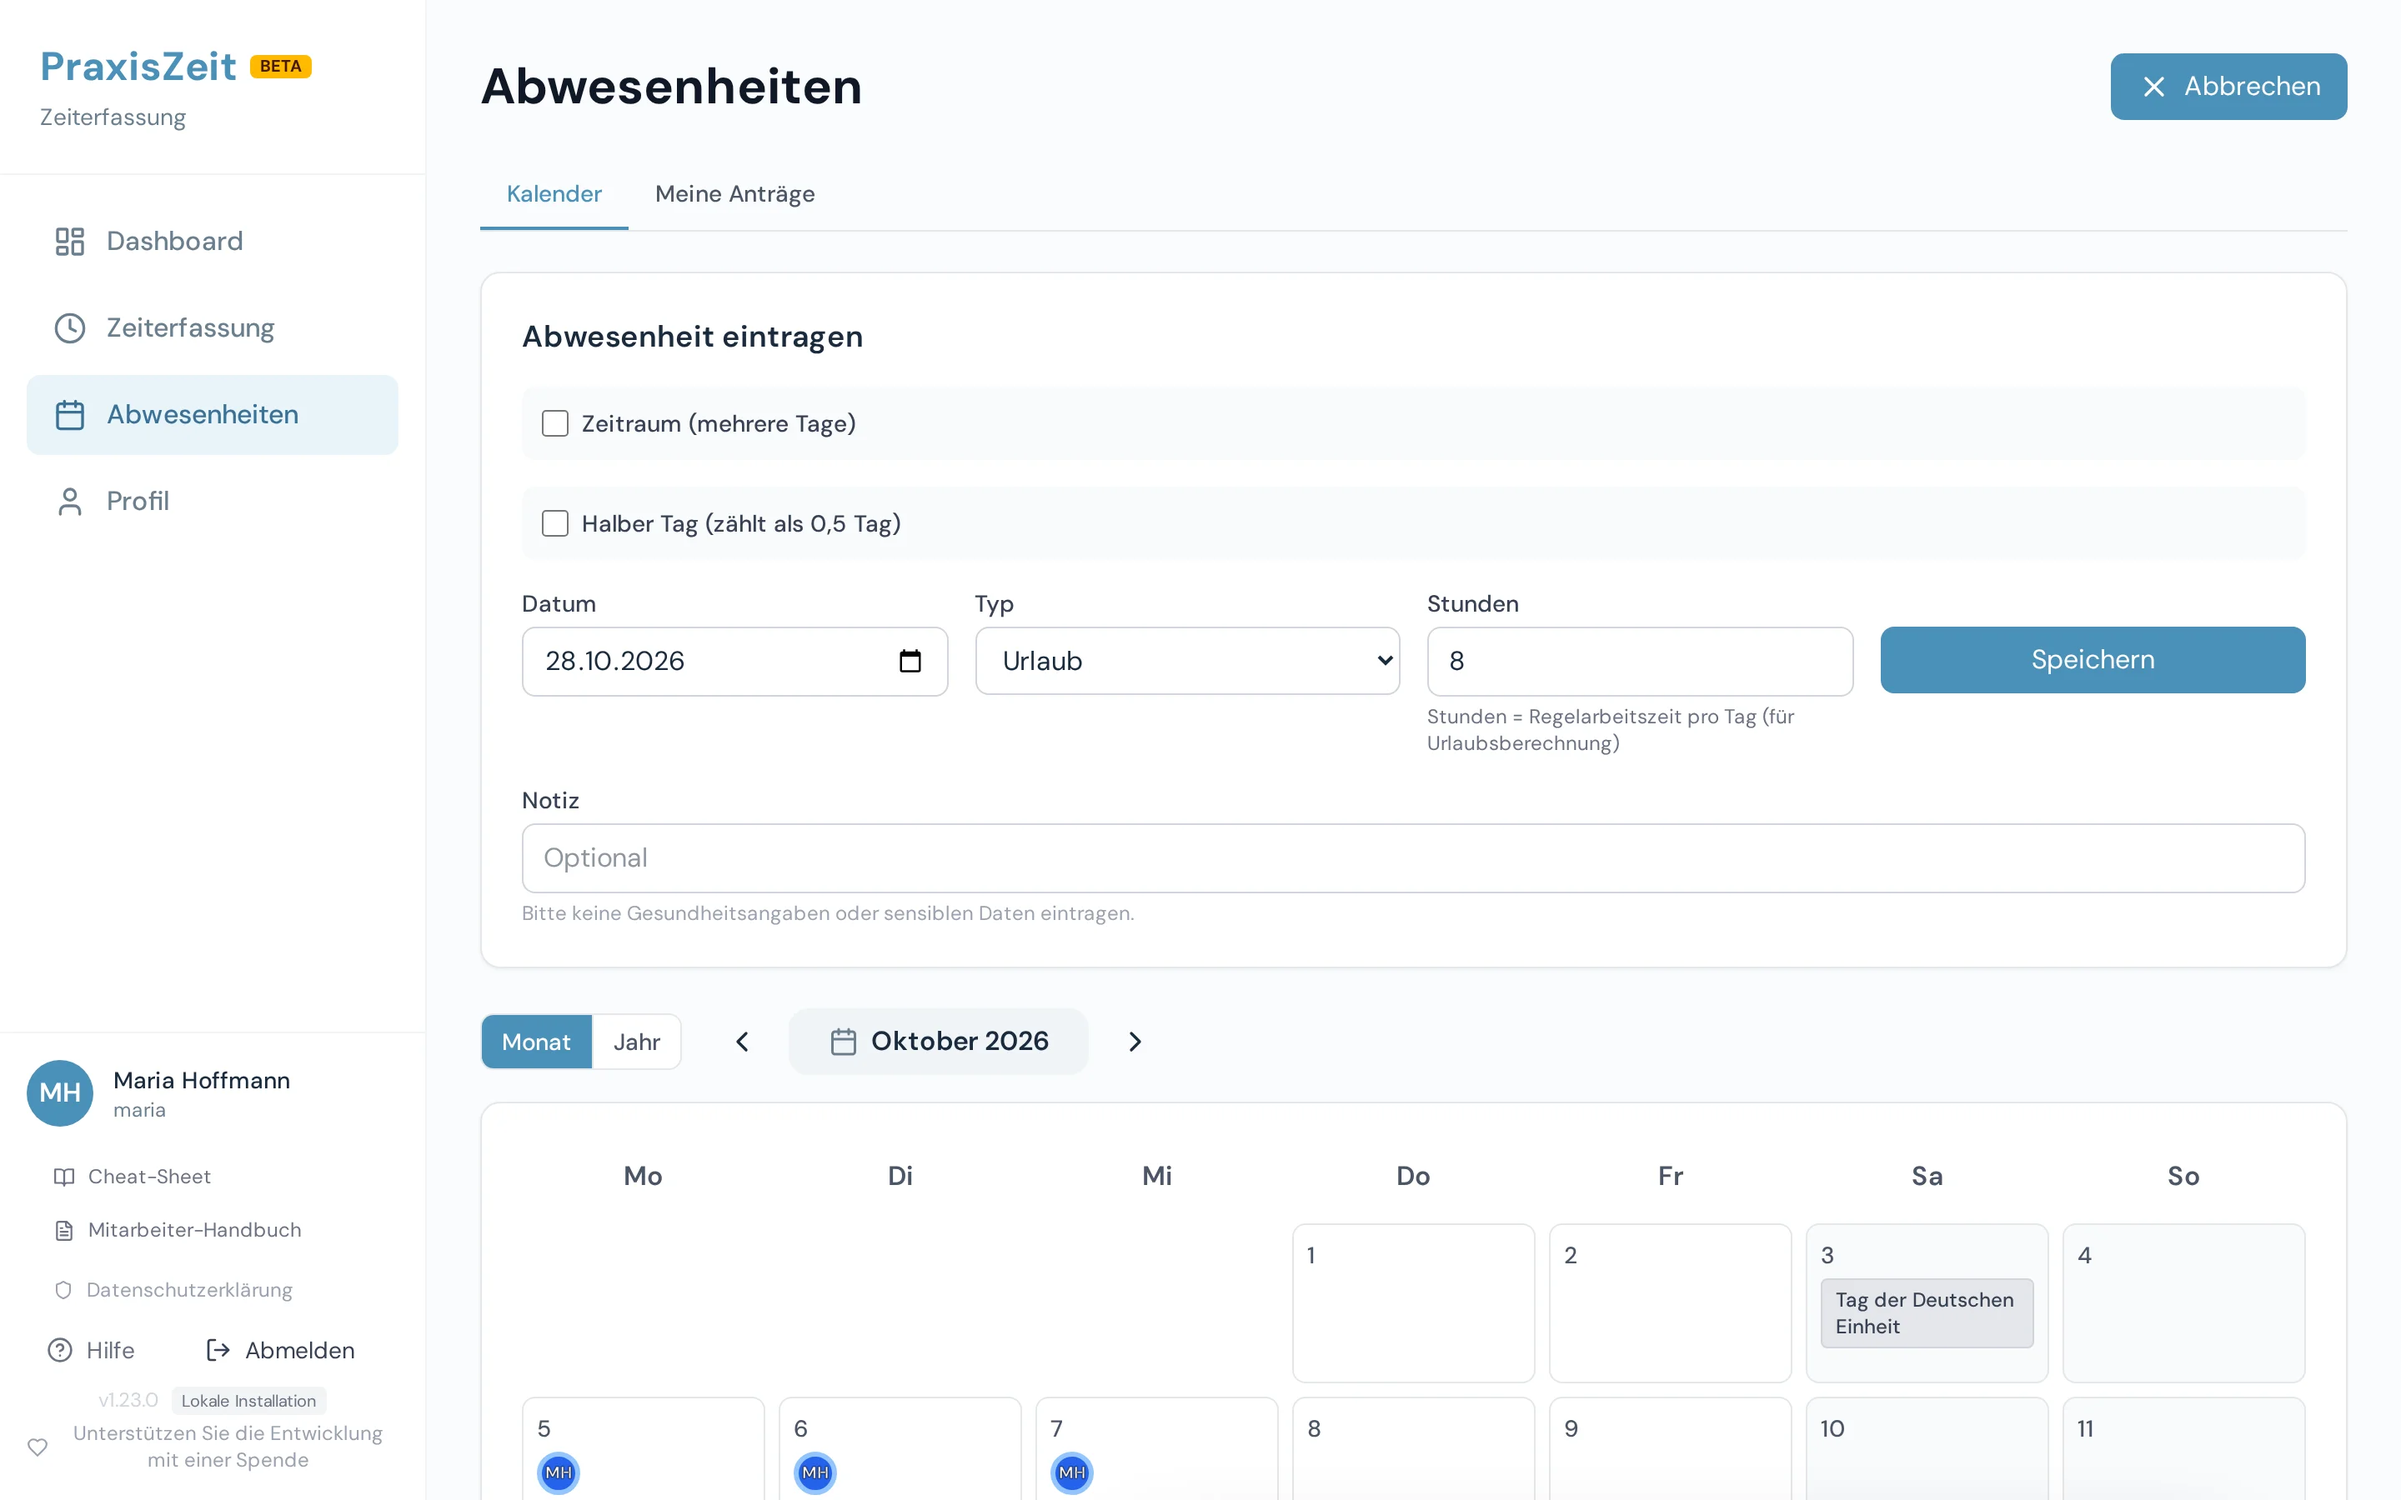
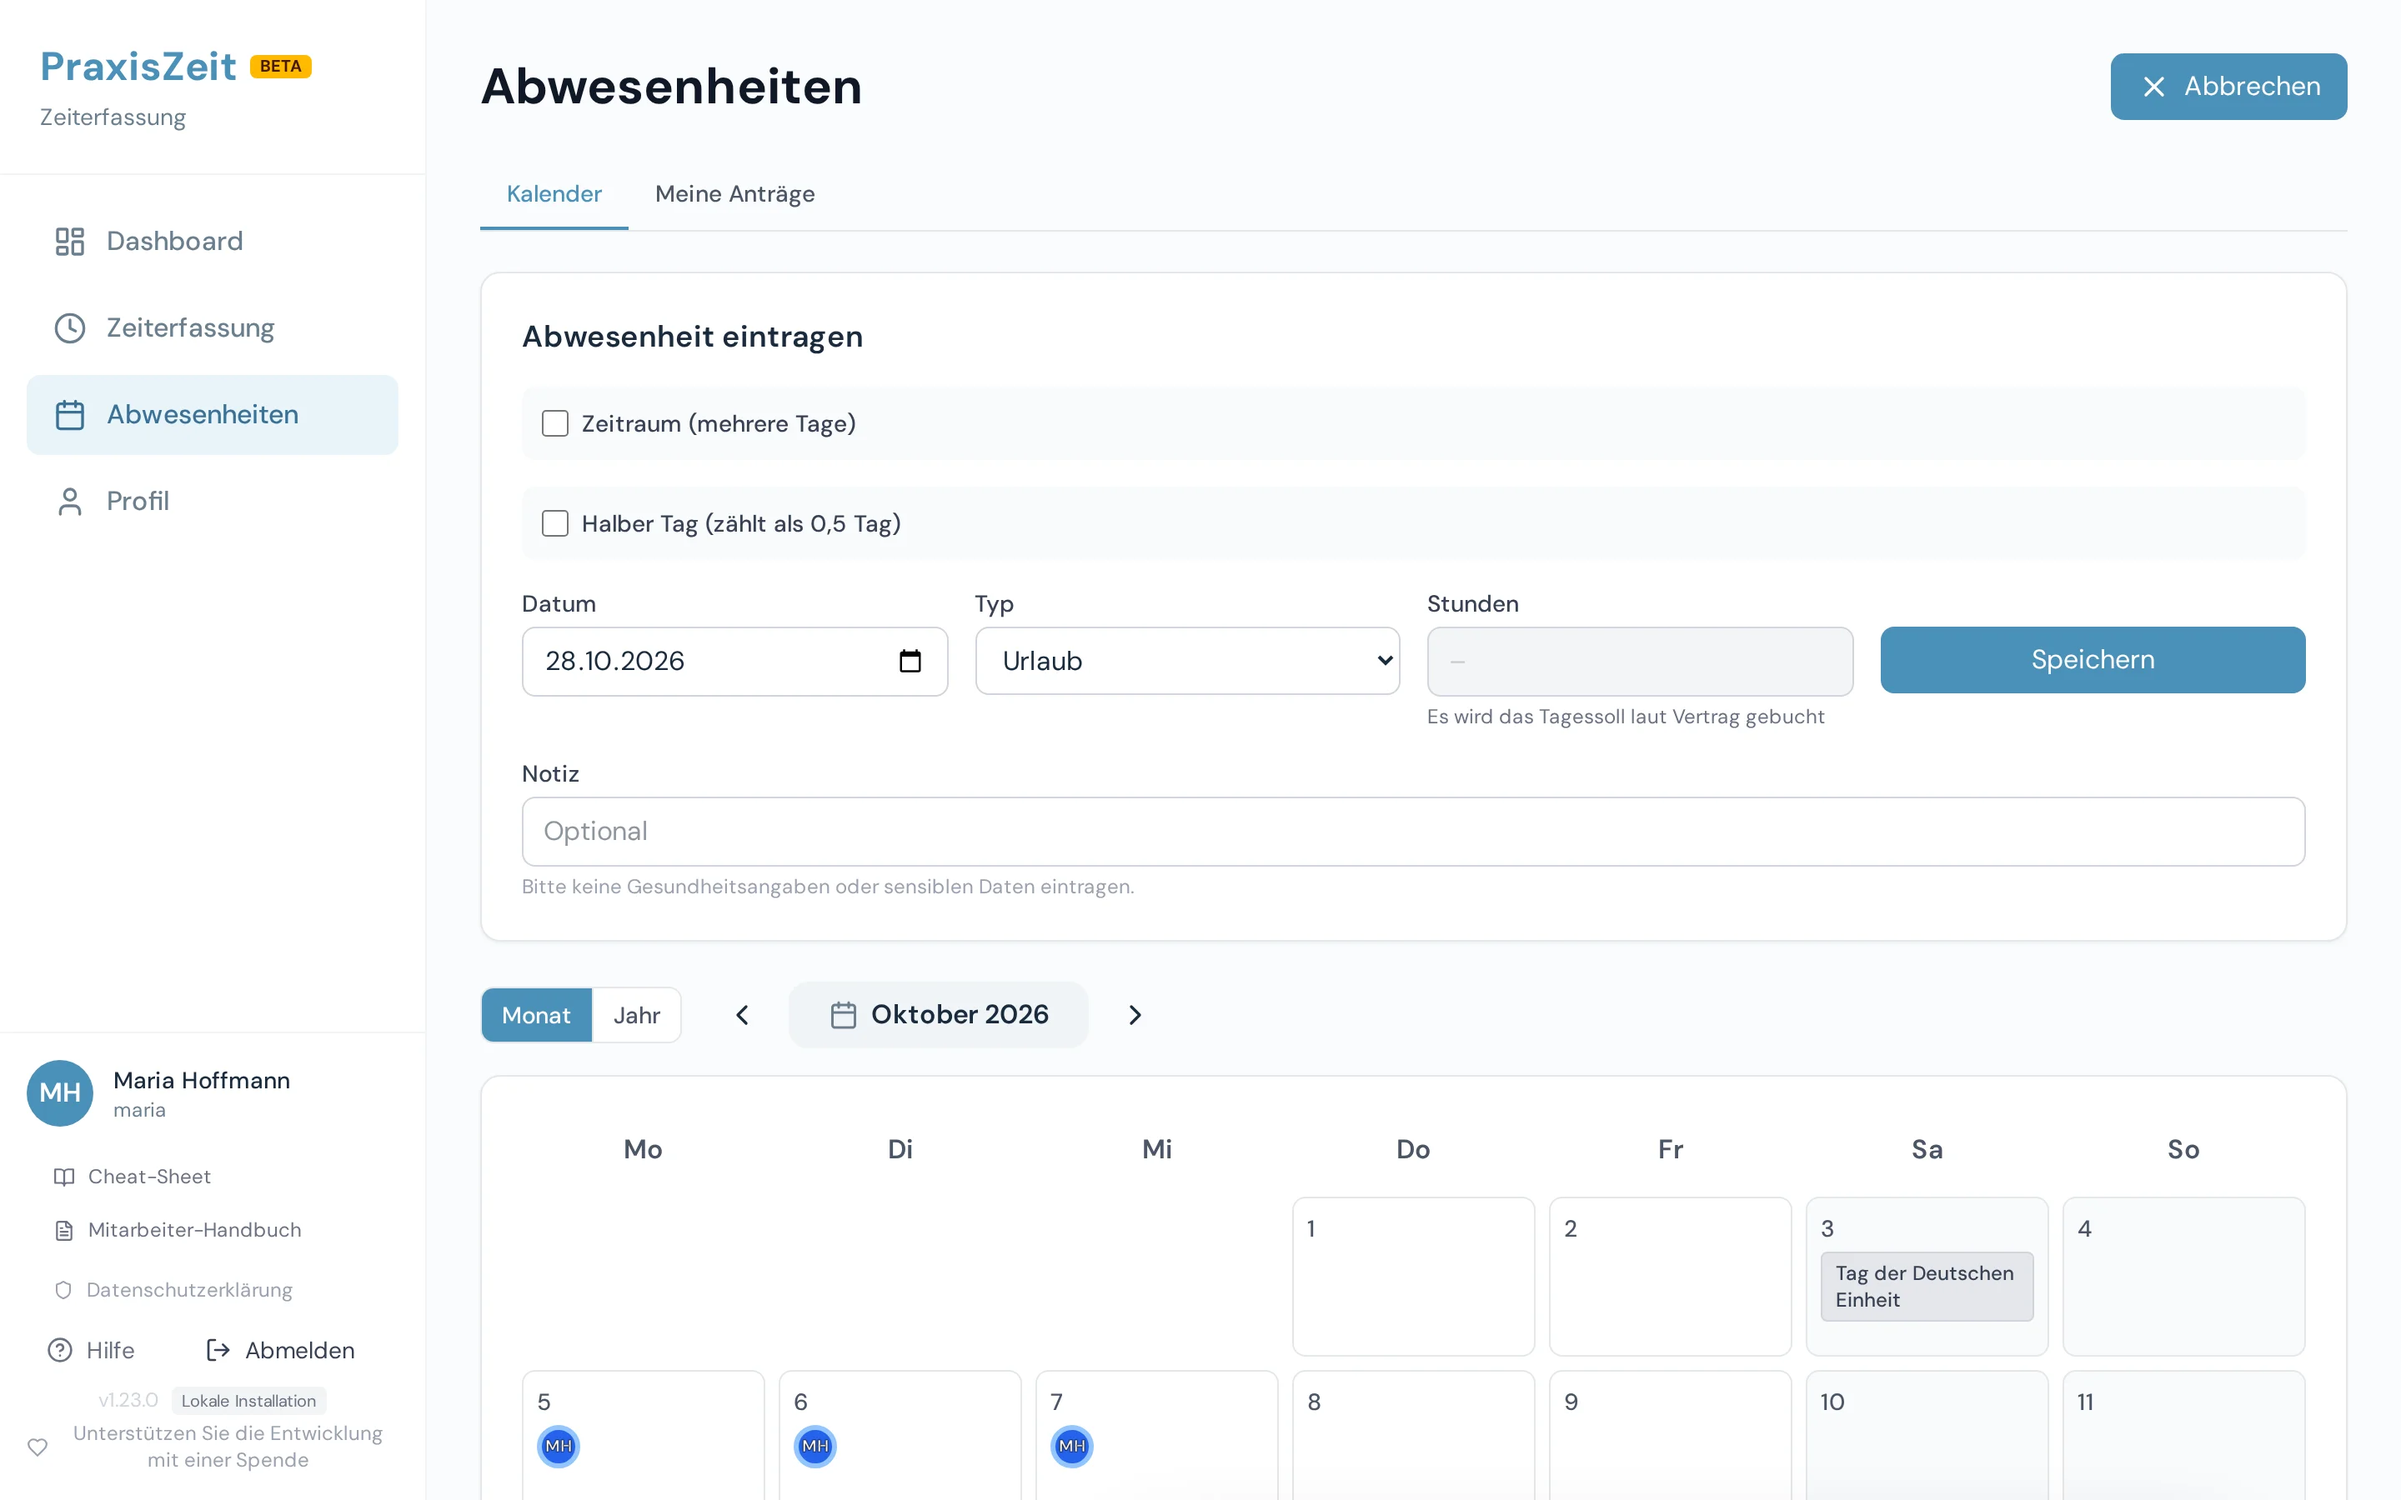
docs(handbuch): Abwesenheit eintragen und halber Tag fuer Mitarbeitende
Step/alt texts for the employee shots and the Praxisleitung overtime
wording (daily schedule books the day target); shots re-captured.

diff --git a/frontend/src/handbuch/content/mitarbeitende.ts b/frontend/src/handbuch/content/mitarbeitende.ts
@@ -234,7 +234,7 @@ const shots: ShotDef[] = [
       { n: 3, id: 'typ', locator: { css: 'main form select' }, badge: 'top' },
       { n: 4, id: 'speichern', locator: { role: 'button', name: 'Speichern', exact: true, within: 'main' }, badge: 'top' },
     ],
-    alt: 'Formular „Abwesenheit eintragen“ mit Zeitraum, Halber Tag, Datum, Typ Urlaub, Stunden und dem Knopf „Speichern“',
+    alt: 'Formular „Abwesenheit eintragen“ mit Zeitraum, Halber Tag, Datum, Typ Urlaub, ausgegrautem Stundenfeld mit Hinweis zum Tagessoll und dem Knopf „Speichern“',
   },
   {
     id: 'ma-halber-tag',
@@ -251,7 +251,7 @@ const shots: ShotDef[] = [
       { n: 2, id: 'stunden', locator: { css: 'main form input[type="number"]' }, badge: 'top' },
       { n: 3, id: 'speichern', locator: { role: 'button', name: 'Speichern', exact: true, within: 'main' }, badge: 'top' },
     ],
-    alt: 'Formular „Abwesenheit eintragen“ mit Haken bei „Halber Tag (zählt als 0,5 Tag)“ und gesperrtem Stundenfeld',
+    alt: 'Formular „Abwesenheit eintragen“ mit Haken bei „Halber Tag (zählt als 0,5 Tag)“ und ausgegrautem Stundenfeld mit dem Hinweis zum halben Tagessoll',
   },
   {
     id: 'ma-loeschung-beantragen',
@@ -901,6 +901,7 @@ export const mitarbeitende: Handbook = {
             { n: 1, text: 'Mehrere Tage? Setzen Sie den Haken bei [[Zeitraum (mehrere Tage)]]. Wochenenden, Feiertage und Ihre freien Tage werden ausgelassen.' },
             { n: 2, text: 'Wählen Sie das **Datum** – beim Zeitraum **Von** und **Bis**.' },
             { n: 3, text: 'Wählen Sie den **Typ**: Urlaub, Krank, Fortbildung (außer Haus), Überstundenausgleich, Sonstiges – oder einen eigenen Grund Ihrer Praxis.' },
+            { text: 'Das Feld **Stunden** bleibt ausgegraut: Gebucht wird Ihr Tagessoll laut Vertrag („Es wird das Tagessoll laut Vertrag gebucht“). Nur beim Überstundenausgleich können Sie es ausfüllen.' },
             { n: 4, text: 'Klicken Sie auf [[Speichern]]. Urlaubstage gehen automatisch von Ihrem Budget ab – verlangt Ihre Praxis eine Genehmigung, erst nachdem die Verwaltung den Antrag genehmigt hat.' },
           ],
         },
@@ -908,8 +909,8 @@ export const mitarbeitende: Handbook = {
           kind: 'tip',
           tone: 'info',
           text:
-            '**Stunden** sind vorausgefüllt und werden ohnehin durch Ihr Tagessoll ersetzt. Nur bei **Überstundenausgleich** zählt ' +
-            'der eingetragene Wert – er wird von Ihrem Überstundenkonto abgezogen.',
+            '**Stunden** sind bei allen Arten außer **Überstundenausgleich** gesperrt – gebucht wird Ihr Tagessoll. Beim Überstundenausgleich ' +
+            'zählt der eingetragene Wert und wird von Ihrem Überstundenkonto abgezogen; haben Sie einen Tagesplan, bucht das System stattdessen das Tagessoll des Tages.',
         },
         {
           kind: 'tip',
@@ -926,7 +927,7 @@ export const mitarbeitende: Handbook = {
           shot: 'ma-halber-tag',
           steps: [
             { n: 1, text: 'Setzen Sie den Haken bei [[Halber Tag (zählt als 0,5 Tag)]]. Er steht nur bei einem einzelnen Tag bereit, nicht bei Krank oder Überstundenausgleich.' },
-            { n: 2, text: 'Das Feld **Stunden** ist dann gesperrt: Gebucht wird automatisch das halbe Tagessoll.' },
+            { n: 2, text: 'Das Feld **Stunden** bleibt ausgegraut („Halber Tag: 0,5 × Tagessoll wird automatisch gebucht“): Gebucht wird das halbe Tagessoll.' },
             { n: 3, text: 'Wählen Sie Datum und Typ und klicken Sie auf [[Speichern]]. Vom Urlaubskonto gehen 0,5 Tage ab.' },
           ],
         },

diff --git a/frontend/src/handbuch/content/praxisleitung.ts b/frontend/src/handbuch/content/praxisleitung.ts
@@ -1183,7 +1183,7 @@ export const praxisleitung: Handbook = {
             { n: 2, text: 'Mehrere Tage? Setzen Sie den Haken bei [[Zeitraum (mehrere Tage)]]. Für einen einzelnen Tag gibt es [[Halber Tag (zählt als 0,5 Tag)]] – nicht bei Krank und Überstundenausgleich.' },
             { n: 3, text: 'Wählen Sie das **Datum** – beim Zeitraum **Von** und **Bis**. Anders als die Mitarbeitenden tragen Sie auch vergangene Tage direkt ein.' },
             { n: 4, text: '**Typ:** Urlaub, Krank, Fortbildung (außer Haus), Überstundenausgleich, Bezahlte Freistellung (kein Urlaubsabzug), Sonstiges – oder unter „Eigene Gründe“ ein Grund Ihrer Praxis.' },
-            { text: '**Stunden:** Das Feld bleibt ausgegraut, solange es nichts einzutragen gibt – gebucht wird immer das Tagessoll des Tages laut Vertrag („Es wird das Tagessoll laut Vertrag gebucht“). Nur beim Überstundenausgleich ist das Feld frei: Der eingetragene Wert geht vom Überstundenkonto ab.' },
+            { text: '**Stunden:** Das Feld bleibt ausgegraut, solange es nichts einzutragen gibt – gebucht wird immer das Tagessoll des Tages laut Vertrag („Es wird das Tagessoll laut Vertrag gebucht“). Nur beim Überstundenausgleich (auch als eigener Grund „Überstundenabbau“) ist das Feld frei: Der eingetragene Wert geht vom Überstundenkonto ab – bei Personen mit Tagesplan bucht das System stattdessen das Tagessoll des Tages.' },
             { n: 5, text: 'Klicken Sie auf [[Speichern]].' },
           ],
         },
